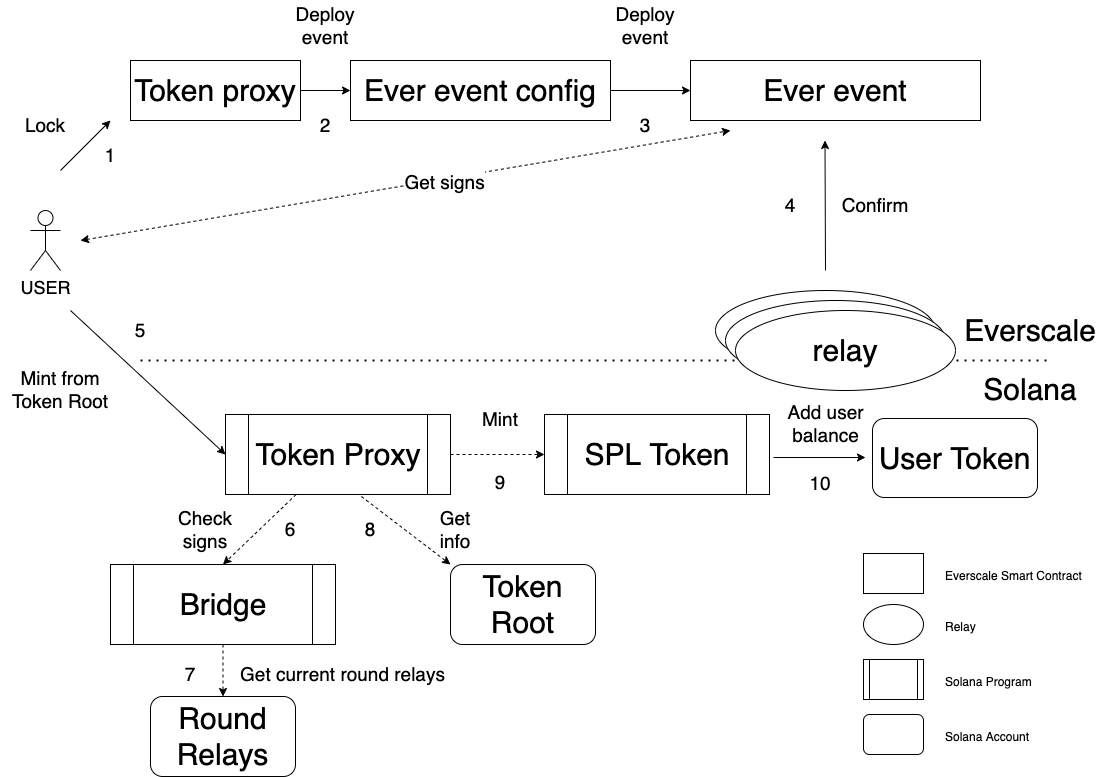
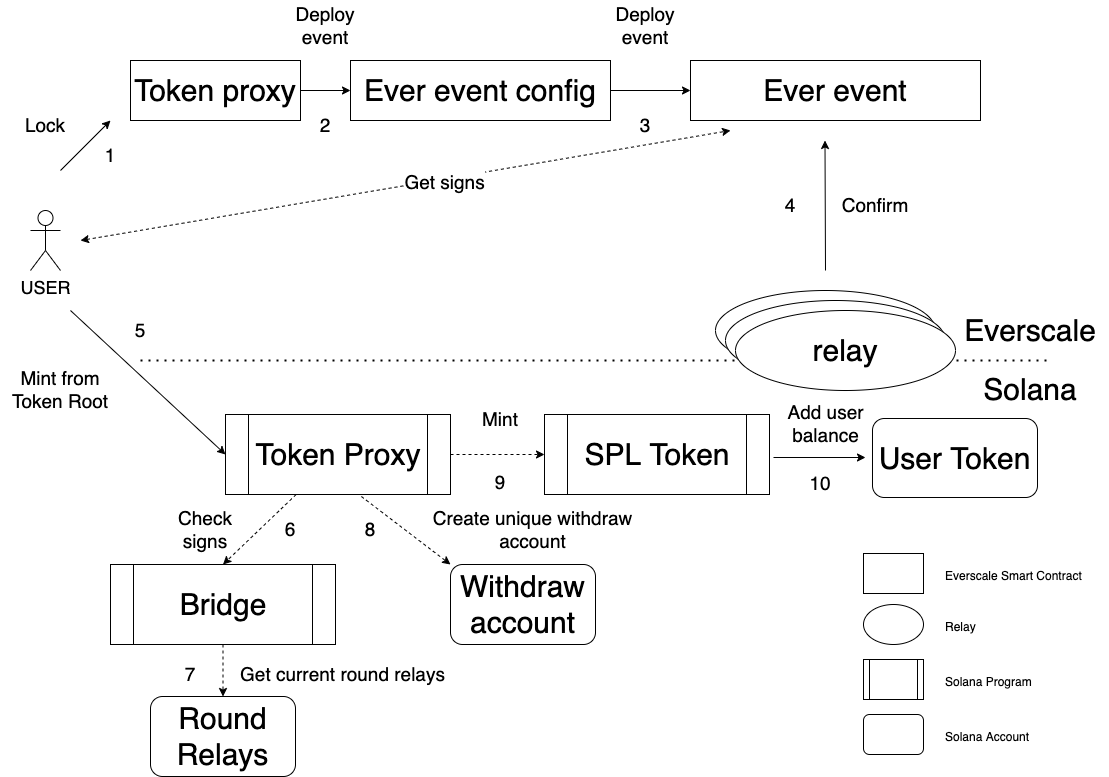
fixed token proxy check uniqueness of withdraw from everscale

Changed region(s): [[0.3986, 0.7413, 0.5212, 0.834], [0.3986, 0.6486, 0.5825, 0.7104]]

diff --git a/Ever solana solana tokens.md b/Ever solana solana tokens.md
@@ -12,8 +12,8 @@ to use vault owned by `Token proxy` program in `Solana` blockchain to unlock tok
 5. User calls withdraw tokens from vault in `Solana` `Token Proxy` program transferring payload with relays signs.
 6. `Token Proxy` program calls `Bridge` program to check relays signs.
 7. `Bridge` program gets current round relays info (public keys, addresses) and checks signs.
-8. If no error got from `Bridge` program, then `Token proxy` checks balance on `Vault` account.
-9. `Token proxy` program calls transfer tokens on `SPL token` program.
+8. If no error got from `Bridge` program, then `Token proxy` creates unique withdraw account with `PayloadId` from event.
+9. If no withdraw account was created before, then `Token proxy` program calls transfer tokens on `SPL token` program.
 10. `SPL token` program decreases `Vault` account tokens and increases users tokens balance.
 
 ## Questions

diff --git a/Ever solana ever tokens.md b/Ever solana ever tokens.md
@@ -12,8 +12,8 @@ to use token root owned by `Token proxy` program in `Solana` blockchain to mint 
 5. User calls mint tokens in `Solana` `Token Proxy` program transferring payload with relays signs.
 6. `Token Proxy` program calls `Bridge` program to check relays signs.
 7. `Bridge` program gets current round relays info (public keys, addresses) and checks signs.
-8. If no error got from `Bridge` program, then `Token proxy` gets info from `Token root` account.
-9. `Token proxy` program calls mint on `SPL token` program.
+8. If no error got from `Bridge` program, then `Token proxy` creates unique withdraw account with `PayloadId` from event.
+9. If no withdraw account was created before, then `Token proxy` program calls mint on `SPL token` program.
 10. `SPL token` program mints tokens and increases users balance.
 
 ## Questions
